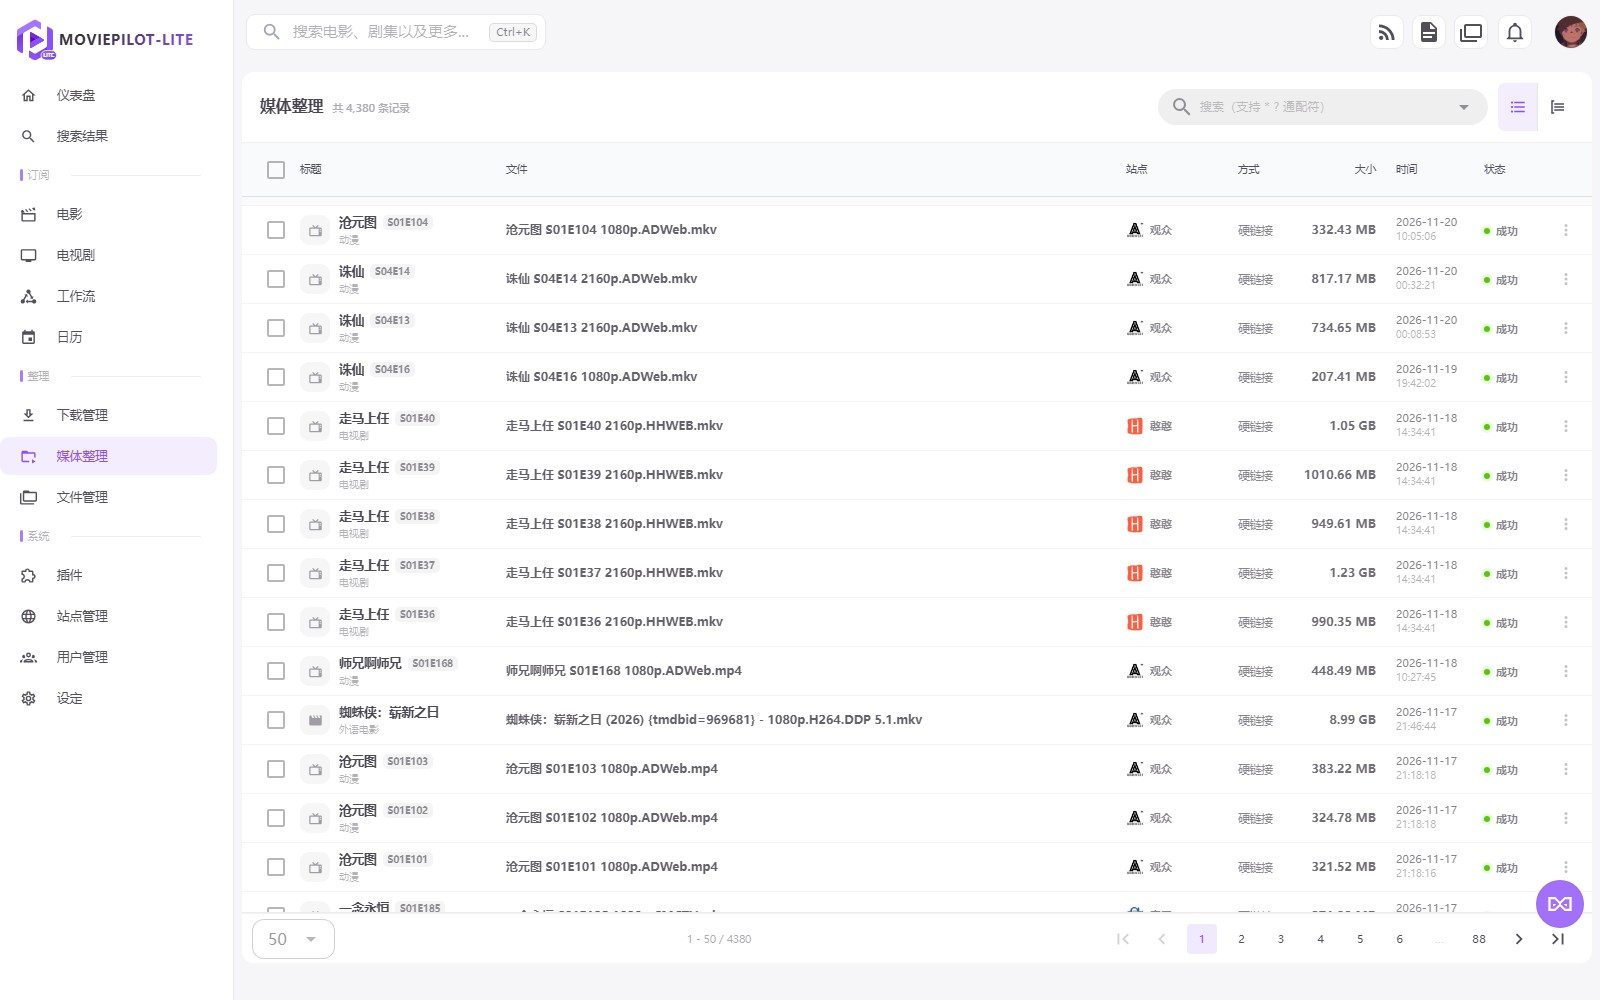
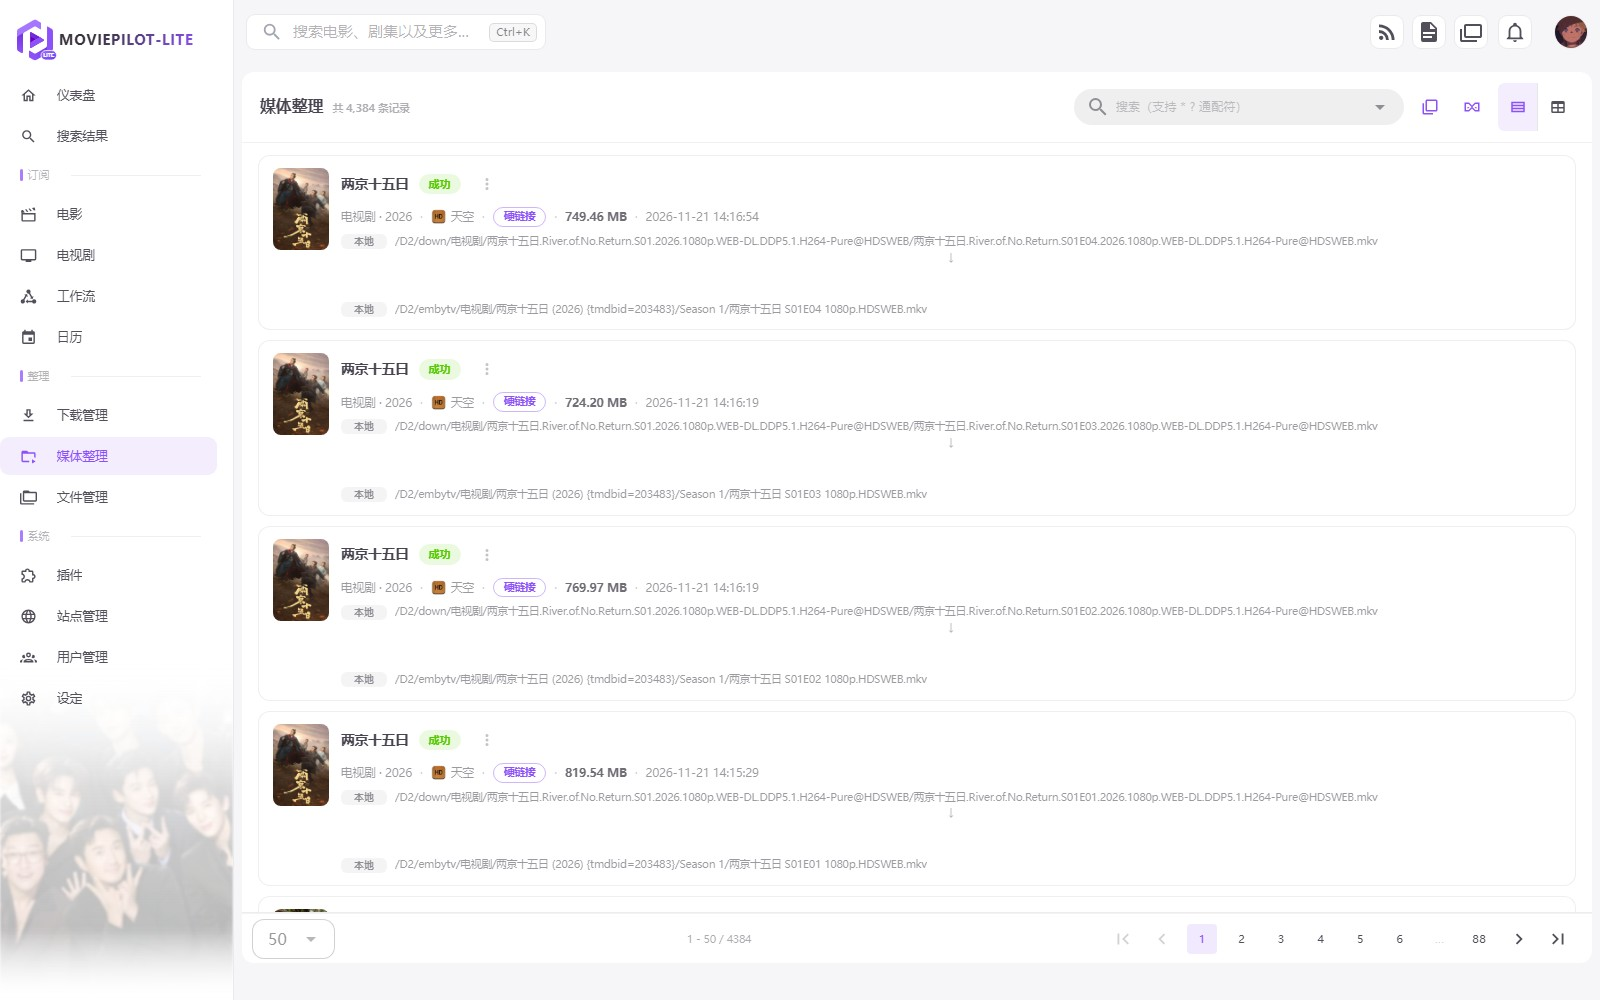
docs: media organize card view preview

diff --git a/README.md b/README.md
@@ -20,7 +20,7 @@
 | ![站点日志](docs/screenshots/site-log.jpg) | ![日志分类](docs/screenshots/logging.jpg) |
 | **站点日志**：按站点记录 RSS 刷新与识别明细 | **日志分类**：下载 / 消息 / 刮削 / 整理分类着色与筛选 |
 | ![订阅日历](docs/screenshots/calendar.jpg) | ![媒体整理](docs/screenshots/history.jpg) |
-| **订阅日历**：月 / 周视图、分类筛选、今日更新与本周待播 | **媒体整理**：文件名 + 来源站点列，悬停查看完整路径 |
+| **订阅日历**：月 / 周视图、分类筛选、今日更新与本周待播 | **媒体整理**：剧集封面卡片，站点图标、转移详情一目了然 |
 
 ## 主要特性
 
@@ -29,7 +29,7 @@
 - 下载器、媒体服务器、元数据源、消息渠道、插件与工作流能力保持兼容
 - **搜索结果页**：中文标题优先，紧凑卡片与高密度表格一键切换；支持排序、仅免费、分辨率等筛选
 - **站点管理**：状态徽章、上传/下载进度、分享率卡片化展示，顶部汇总与快捷新增/导入
-- **媒体整理**：「文件」列只显示整理后文件名、悬停查看完整源/目标路径；「站点」列展示来源站点图标与名称
+- **媒体整理**：卡片式布局带剧集封面，站点图标、转移方式、源/目标路径一目了然；选择模式支持批量整理/删除
 - **订阅日历**：月 / 周视图与本月总集数 / 已入库 / 待入库汇总；支持电影 / 电视剧、仅未入库、隐藏过期与剧名筛选，右侧展示今日更新和本周待播
 - **侧栏**：整体缩小约 10%，分组分割线，左下角单张今日海报（刷新轮换、每 30 分钟自动切换），支持透明度调节
 - **站点日志**：按站点记录每次 RSS 刷新的种子名称与识别结果，支持站点切换、分页与自动刷新
@@ -54,7 +54,7 @@
 - `GET /api/v1/dashboard/today`：今日更新数据（含入库状态）
 - 搜索结果页重做：中文标题提取、紧凑卡片 / 表格视图、仅免费快捷筛选
 - 站点管理改版：状态徽章、上传下载进度、分享率与顶部汇总
-- 媒体整理表格重做：文件名列 + 来源站点列，悬停完整路径，整体降噪紧凑
+- 媒体整理卡片式改版：剧集封面卡片、站点图标、卡片/表格双视图与选择模式批量操作
 - 订阅日历：月 / 周视图、分类与未入库筛选、今日 / 本周议程与移动端折叠时间线
 - 侧栏增强：紧凑布局、分组分割线、单张今日海报（刷新/半小时轮换）与透明度设置
 - 日志分类标签与筛选（下载 / 消息 / 刮削 / 整理 / 其他）
